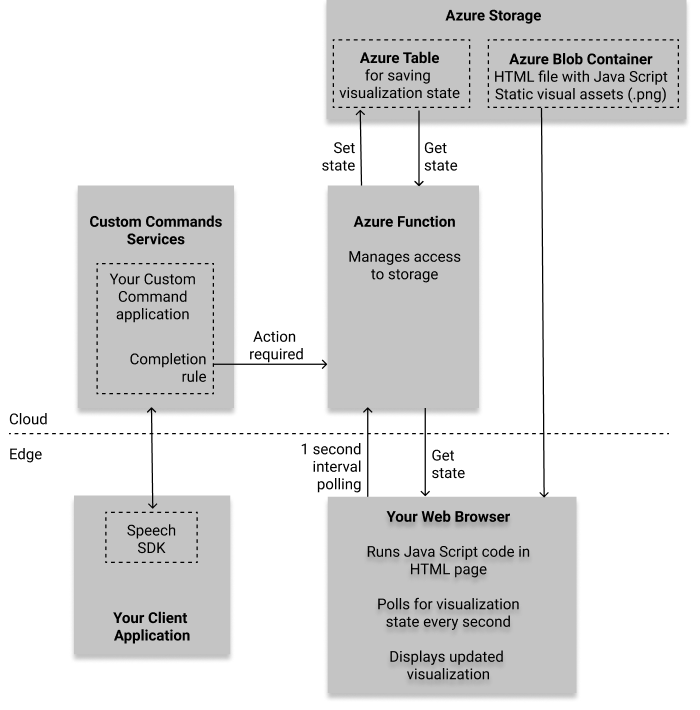
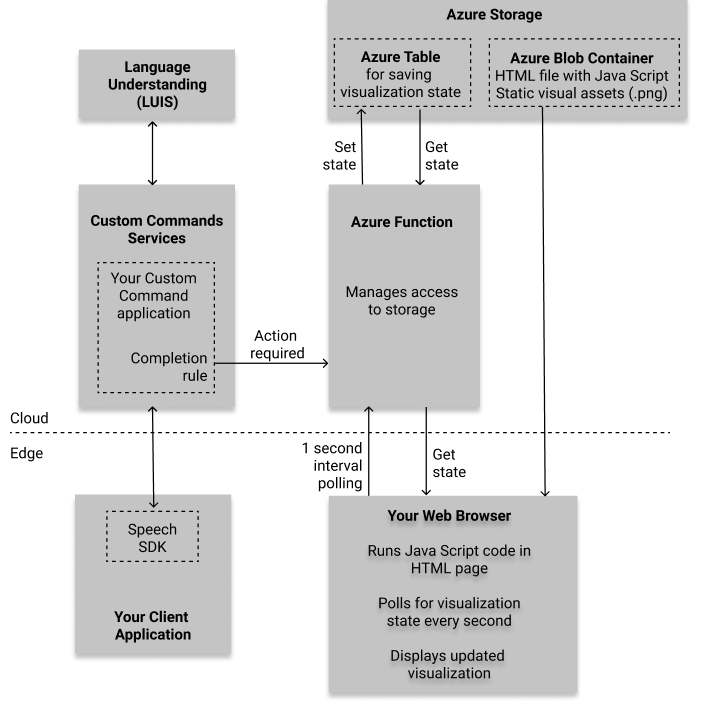
update

diff --git a/custom-commands/hospitality/deployment/README.md b/custom-commands/hospitality/deployment/README.md
@@ -11,14 +11,14 @@
 
 ## What are you deploying?
 
-You will be deploying a sample [Custom command](https://docs.microsoft.com/en-us/azure/cognitive-services/speech-service/custom-commands) project in your [Speech Studio](https://speech.microsoft.com/portal) portal. To demonstrate successful task completion (e.g. lights have turned off when you said "lights off"), we created web page with a simulated scene. The completion rules in the Custom Command project are configured to make web calls to an Azure function that manages the state of the scene. Therefore in addition to the custom command project, you will be deploying all the Azure resources needed to support this visualization, in your Azure subscription. Everything will be under your control from that point on.
+You will be deploying a sample [Custom command](https://docs.microsoft.com/en-us/azure/cognitive-services/speech-service/custom-commands) project in your [Speech Studio](https://speech.microsoft.com/portal) portal. To demonstrate successful task completion (e.g. lights have turned off when you said "lights off"), we created a web page with a simulated scene. The completion rules in the Custom Command project are configured to make web calls to an Azure function that manages the state of the scene. Therefore in addition to the Custom Command project, you will be deploying all the Azure resources needed to support this visualization, in your Azure subscription.
 
 The following block diagram describes how the demo runs: 
 <p align="center">
 <img src="images/block-diagram.png"/>
 </a>
 </p>
-We will assume here that you have read about Custom Commands and Speech SDK client applications, and focus on the visualization part:
+We assume that you read about Custom Commands and Speech SDK client applications, and here we describe the visualization part:
 
 * An Azure storage is created, which holds an HTML file and associated images needed to visualize all the states of the scene 
 * Azure storage also includes a table with one row, which is used to save the state of the scene 
@@ -26,9 +26,9 @@ We will assume here that you have read about Custom Commands and Speech SDK clie
 * An Azure function is created. It has access to the storage. When your Custom Command project has completed a dialog (e.g. "turn on the lights"), its completion rule will make a web call invoking the Azure function with query URL parameters indicating the desired new state of the scene (lights are on)
 * The Azure function updates the row in Azure table storage to reflect the new state
 * While all that is happening, the Java Script embedded in the HTML page you are viewing, runs and periodically makes calls to the same Azure function to get the most recent scene state. In this demo the period is set to 1 second
-* If the state has changed, the Java Script code in the HTML builds the new visualization to reflect the current state, using the static images in storage 
+* If the state has changed, the Java Script code in the HTML builds the new visualization to reflect the current state, using the static images in storage
 
-If all that sounds good, continue on to deploy the resources to your Azure subscription...
+If all that sounds good, continue on to deploy the resources to your Azure subscription.
 
 ## Deploying Azure resources
 Open a command prompt and clone the repository if you have not done so already. Change directory to the custom commands deployment folder:
@@ -72,21 +72,16 @@ To view your visualization go to this link.
 ```
 Copy the above information and store it for later use (but you can always [retrieve it if needed](#retrieving-client-connection-information-and-visualization-URL))
 
-If you now look at your [Azure Resource groups](https://portal.azure.com/#blade/HubsExtension/BrowseResourceGroups) in the Azure portal, you will see a new resource group has been created with the name you selected, with 6 resources in it, similar to what you see here:
-<!-- Save this for reference, we may want to go back to a table and add descriptions...
-| Name  | Type          |
-| ------- | ---------------- |
-| MyResourceGroupName-###  | Cognitive Services |
-| MyResourceGroupName-### | App Service |
-| MyResourceGroupName-###-authoringkey | Cognitive Services |
-| MyResourceGroupName-serverfarm | App Service Plan |
-| MyResourceGroupName-speech | Cognitive Services |
-| MyResourceGroupName### | Storage account
--->
-<p align="center">
-<img src="images/resource-group.png"/>
-</a>
-</p>
+If you now look at your [Azure Resource groups](https://portal.azure.com/#blade/HubsExtension/BrowseResourceGroups) in the Azure portal, you will see a new resource group has been created with the name you selected, with these 6 resources in it:
+
+| Name  | Type          | Usage
+| ------- | ---------------- | --- |
+| MyResourceGroupName-####  | Cognitive Services | LUIS runtime (API type "Language Understanding (LUIS)")
+| MyResourceGroupName-#### | App Service | Required to host the Azure function
+| MyResourceGroupName-####-authoringkey | Cognitive Services | LUIS authoring (API type Language Understanding Authoring (LUIS))
+| MyResourceGroupName-serverfarm | App Service Plan | Required to host the Azure function
+| MyResourceGroupName-speech | Cognitive Services | Speech resource, where you get the speech subscription key
+| MyResourceGroupName#### | Storage account | Stores HTML and supporting .png files for scene visualization
 
 ## Make sure the visualization works properly
 
@@ -144,9 +139,9 @@ az group delete --name MyResourceGroupName
 
 *This section needs to be updated.*
 
-First an Azure resource group was created using the resourceName parameter as the name.
+First an Azure resource group was created using the resourceName parameter of the Powershell script as the name.
 
-Then resources were created using an azure template which is stored in the [./azuredeploy.json](./azuredeploy.json) file. Parameters were passed in from the powershell script by manipulation the json values in the [./azuredeploy.parameters.json](./azuredeploy.parameters.json) file. For the individual resources a random number between 0 and 9999 is attached to help guarantee availability.</br>
+Then resources were created using an azure template which is stored in the [./azuredeploy.json](./azuredeploy.json) file. Parameters were passed in from the Powershell script by manipulation the json values in the [./azuredeploy.parameters.json](./azuredeploy.parameters.json) file. For the individual resources a random number between 0 and 9999 is attached to help guarantee availability.</br>
 
 The values set in the azuredeploy.json file determine many things like pricing scheme, dependencies, and others.
 
@@ -158,17 +153,16 @@ These are the resources specified in the azuredeploy.json:
 * App Service Plan
 * Function App (CORS policy specified as "\*". Further reading: [CORS](https://en.wikipedia.org/wiki/Cross-origin_resource_sharing))
 
-There are some links between resources that we must update. So we do a simple string replace in the powershell script to connect the demo.html file in the storage account to the azure function and to connect the function to the storage to be able to update tables.
+There are some links between resources that we must update. So we do a simple string replace using the Powershell script to connect the demo.html file in the storage account to the azure function and to connect the function to the storage to be able to update tables.
 
 Once the resources we need are deployed and our files are updated, we must fill the storage account with the files used in the visualization. These are stored in the repo under [../storage files](../storage-files).
 
 We give the calling user the Storage Blob Data Reader and Contributor roles. Then we push the files to the resource.
 
-After that the azure function project located in [../skill](../skill) was built using the command line .NET tool and deployed to the Azure function resource.
+After that the azure function project located in [../azure-function](../azure-function) was built using the command line .NET tool and deployed to the Azure function resource.
 
-The Custom Commands application was created from the json file [../skill/hospitalityCustomCommands.json](../skill/hospitalityCustomCommands.json) and deployed using your Azure subscription. You can view that service in the [Microsoft Speech Portal](https://speech.microsoft.com/).
+The Custom Commands application was created from the json file [../skill/hospitalityCustomCommands.json](../skill/hospitalityCustomCommands.json) and deployed using your Azure subscription. You can view that service in the [Speech Studio portal](https://speech.microsoft.com/).
 
 Our Powershell deployment script is intended to make getting started easier. For further customization you should edit the Powershell scripts to fit your needs.
 
-Another useful thing might be to update the SKU's in the azuredeploy.json to allow higher usage and other things such as multiple speech resources, and App Service plans in different regions. The script has a region check for the supported regions of the free App Service plan, which will need to be removed if you do this.
-
+Another useful thing might be to update the Azure SKU's in the azuredeploy.json to allow higher usage and other things such as multiple speech resources, and App Service plans in different regions. The script has a region check for the supported regions of the free App Service plan, which will need to be removed if you do this.
